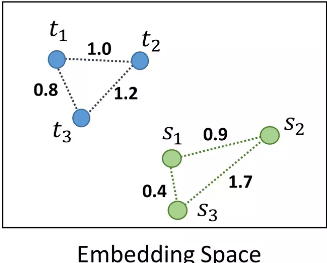
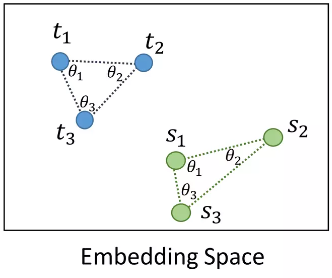
Co-authored-by: Ipsit Mantri <ipsitmantri@users.noreply.github.com>

Changed region(s): [[0.0, 0.0, 1.0, 1.0], [0.0917, 0.0608, 0.4893, 0.5475], [0.7034, 0.6692, 0.7951, 0.73]]

diff --git a/_posts/2023-01-15-TinyML.md b/_posts/2023-01-15-TinyML.md
@@ -55,43 +55,51 @@ _styles: >
     text-align: center;
     font-size: 16px;
   }
+  .small_img {
+    width: 50%;
+    height: auto;
+    margin-left: auto;
+    margin-right: auto;
+  }
 ---
 
 ## Goal of this blog post  
-NetAug caters on how to train a small neural networks like MobileNetV2-Tiny for the best top-k percent accuracy that technically differs from training large neural networks, the techniques mentioned are contrary to traditional methods like network pruning,quantization and other regularization techniques. It can be viewed as a reversed form of dropout, as we enlarge the target model instead of shrinking it. 
+NetAug TODO--cite caters on how to train small neural networks like MobileNetV2-Tiny for the best top-k percent accuracy. They argue that training small neural networks technically differs from that of large neural networks because the former are prone to underfitting. NetAug is contrary to traditional methods like dropout, network pruning, quantization, data augmentation and other regularization techniques and it can be viewed as a reversed form of dropout, as we enlarge the target model instead of shrinking it. In this blog post, we identify some problems with NetAug and propose potential workarounds.
 
 ## Background  
-NetAug solely focuses on how to efficiently train small neural networks with less memory overhead and prevent underfitting. It's certainly easy to train a huge neural network the one most predominant issue that big models suffer from is overfitting several techniques like data augmentation,pruning,dropout,knowledge distillation have been proposed. 
+NetAug solely focuses on how to efficiently train small neural networks with less memory compute and be able to deploy them on edge devices and overcome underfitting. It's certainly easy to train a huge neural network, the one most predominant issue that big models suffer from is overfitting. Several techniques like data augmentation,pruning,dropout,knowledge distillation have been proposed. 
 
-1. **Knowledge Distillation**:  It is difficult to deploy and maintain an ensemble. However, previous research has shown that it is possible to learn a single cumbersome model that has the same performance as an ensemble. It is In most of these knowledge distillation methods there exist a large teacher model that transfers its knowledge via training a small student model. 
+1. **Knowledge Distillation**:  It is difficult to deploy and maintain an ensemble. However, previous research has shown that it is possible to learn a single cumbersome model that has the same performance as an ensemble. In most knowledge distillation methods there exist a large teacher model that transfers its knowledge as a learned mapping via training to a small student model with the teacher models output. There exists techniques like self-distillation in which the teacher model trains itself. Convectional KD methods try to optimise the objective function such that the loss function penalizes the difference between the student and teacher model.
 
-2. **Regularization**: Regularization is used to prevent overfitting of any ML model by reducing the variance, model coefficient size and complexity of the model. Regularization techniques are mainly composed of data augmentation one of the most simplest and conveninet ways to expand the size of the dataset such that it prevents overfitting issues that occur with a relatively small dataset. Dropout is also popularly applied while training models, in which at every iteration connection between nodes are randomly dropped based on a particular probability and the remaining neural network is trained normally. 
+2. **Regularization**: Regularization is used to prevent overfitting of any ML model by reducing the variance, penalizing the model coefficients and complexity of the model. Regularization techniques are mainly composed of data augmentation one of the most simplest and conveninet ways to expand the size of the dataset such that it prevents overfitting issues that occur with a relatively small dataset. Dropout is also popularly applied while training models, in which at every iteration incoming and outgoing connections between certain nodes are randomly dropped based on a particular probability and the remaining neural network is trained normally. 
 
-3. **Tiny Deep learning**: TinyML revolves around how effectively we deploy machine learning models without disturbing its accuracy into small and inexpensive edge devices, 
+3. **Tiny Deep learning**:  Several challenges are paved while transitioning from conventional high end ML systems to low level clients, maintaining the accuracy of learning models, provide train-to-deploy facility in resource economical tiny edge devices, optimizing processing capacity. This method includes AutoML procedures for designing automatic techniques for architecturing apt neural netowrks for a given target hardware platform includes customised fast trained models,auto channel pruning methods and auto mixed precision quantization. The other approaches like AutoAugment methods automatically searches for improvised data augmentation within the network to prevent overfitting. There exists network slimming methods to reduce model size, decrease the run-time memory footprint and computing resource. 
 
-4. **Network Augmentation**: This method was proposed by Cai et al. idkkkkkk
+4. **Network Augmentation**: This method was proposed to solve the problem of underfitting in tiny neural networks. This is done by augmenting the given model (referred to as base model) into a larger model and encourage it to work as a sub-model to get extra supervision in additoin to functioning independently. This will help in increasing the representation power of the base model because of the gradient flow from the larger model and it can be viewed equivalently as "**reverse-dropout**". 
 
----
+5. **Neural Architechture Search**: 
 
-## Network Augmentation a.k.a NetAug  
-
-
-## The Problem With NetAug
+--- 
+## The Problem With Network Augmentation a.k.a NetAug  
 
 1. **Random Selection of Augmented Models**: NetAug randomly samples any sub-model at every training iteration without paying attention to which sample is most effective in providing auxiliary supervision to the base model. In this scenario, even those sub-models that are poor in representations are trained that might lead to increase in unnecessary parameters that can severely waste memory space. It's very important to choose which specific sub-model is to be trained at every iteration rather than choosing completely at random.
+<!-- 
+Rough idea for solution: The parameter s is the diversity factor, to control the number of augmented model configurations. Try to penalise/introduce a reward for s to favor a particular configurations that perform better/provide better auxiliary supervision.
+ -->
 
 2. **Naive Loss Function**: NetAug computes loss in a very trivial form, i.e, by simply summing over the loss of the base model with that from the respective sampled augmented models. The overall objective of any optimization is to find network such that it can maintain a tradeoffs between speed and accuracy, generalize to many diverse tasks and datasets. To make continued steady progress toward this objective, we must use the appropriate loss function, for comparing across varied network architectures that can tell us on how reliable the proposed method is.
 
-3. **Overfitting of the Augmented Models**: As the network grows lineary even the number of augmented models increase, thereby overfitting during the training process. Having large number of such models with a poor representation among them will simply increase the training overhead and will cause haphazard confusion while selecting the largest augmented model. NetAug focuses on design and implementing a single best largest, going ahead with just the largest paramater model would yield in bad accuracy and will worsen the overall model performance.
+<!--3. **Overfitting of the Augmented Models**: As the network grows lineary even the number of augmented models increase, thereby overfitting during the training process. Having large number of such models with a poor representation among them will simply increase the training overhead and will cause haphazard confusion while selecting the largest augmented model. NetAug focuses on design and implementing a single best largest, going ahead with just the largest paramater model would yield in bad accuracy and will worsen the overall model performance.-->
 
-4. **Generating the Augmented Model**: For a particular network, rather than varying a single network hyperparameter(ie: network
+4. **Generating the largest Augmented Model**: For a particular network, rather than varying a single network hyperparameter(ie: network
 depth,width), what if instead we vary all relevant network hyperparameters for every augmented sub-model? To advocate this it's sensible to compare the entire distribution of hyperparameter across the model. 
+
 ---
 
 ## Formulation of NetAug
 
 The end goal of any ML model is to be able to minimize the loss function with the help of gradient descent. Since Tiny neural network have a very small capacity the gradient descent is likely to get stuck in local minima. NetAug encourages the tiny neural network to work as a sub-model of a set of larger models constructed by augmenting the width of the tiny model. The largest augmented model,is constructed by augmenting the width ie: width of the largest augmented convolution operation is $$r \times w$$, where $$w$$ is width of a convolution operation and $$r$$ is augmentation factor.
-After building the largest augmented model, we construct other augmented models by selecting a subset of channels from the largest augmented model. We use a hyper-parameter s, named diversity factor, to control the number of augmented model configurations. We set the augmented widths to be linearly spaced between w and r × w. For instance, with r = 3 and s = 2, the possible widths are [w, 2w, 3w].
+After building the largest augmented model, we construct other augmented models by selecting a subset of channels from the largest augmented model. We use a hyper-parameter $$s$$, named diversity factor, to control the number of augmented model configurations. We set the augmented widths to be linearly spaced between $$w$$ and $$r \times w$$. For instance, with $$r = 3$$ and $$s = 2$$, the possible widths are $$[w, 2w, 3w]$$.
 
 ### Introducing NetAug with Relation Knowledge Distribution(RKD): 
 
@@ -99,93 +107,145 @@ Knowledge in learned models is constituted of:
     1. (IKD) Outputs of individual samples represented by the teacher  
     2. (RKD) Relation among examples represented by the teacher
     
-
   1. RKD is a generalization of convectional knowledge distillation that combines with NetAug to boost the performance due to its complementarity with conventional KD, that aims at transferring structural knowledge using mutual relations of data examples in the teacher’s output presentation rather than individual output themselves. Contrary to conventional approaches called as Individual KD (IKD) that transfers individual outputs of the teacher model (fT) to the student model (fS) point-wise, RKD transfers relations of the outputs structure-wise and computes a relational potential ψ for every n-tuple of data instance and transfers the relevant information through the potential from the teacher to the student models. In addition to knowledge represented in the output layers and the intermediate layers of a neural network, knowledge that captures the relationship between feature maps are also used to train a student model. 
  
   2. We specifically aim at training the teacher and student model in a online setting, in this online type of distillation training method/scheme is one in which both the teacher and the student model is trained simultaneously at the same instance of time. 
 
-  Relational Knowledge distillation can be expressed by:
+{% include figure.html path="assets/img/2023-01-15-TinyML/rkd.png" class="img-fluid" %}
 
-    - $$\chi$$: function extracting relation
-      Given a teacher model T and a student model S, we let f(T) and f(S) be functions of the teacher and the student, respectively
+  Relational Knowledge distillation can be expressed by:  
+    $$\psi$$: function extracting relation  
+    Given a teacher model T and a student model S, we let $$f(T)$$ and $$f(S)$$ be functions of the teacher and the student, respectively
 
-  $$\mathcal{L}_{\text{RKD}} = \sum \limits_{\{x_1, \ldots, x_n\} \in \chi^N} l \big(\psi(t_1,\cdots,t_n), \: \psi(s_1, \cdots, s_n)\big)$$
+  $$\begin{equation}
+  \mathcal{L}_{\text{RKD}} = \sum \limits_{\{x_1, \ldots, x_n\} \in \chi^N} l \big(\psi(t_1,\cdots,t_n), \: \psi(s_1, \cdots, s_n)\big)
+  \end{equation}$$
 
-  ## RKD Loss
+### RKD Losses
+1. **Distance-wise distillation loss (pair)**:  
 
-  1. Distance-wise distillation loss(pair):
+<div class="small_img row mt-1">
+{% include figure.html path="assets/img/2023-01-15-TinyML/RKD-D.png" class="img-fluid" %}  
+</div>
 
-          RKD-D transfer relative distance between points on embedding space.
+RKD-D transfer relative distance between points on embedding space.
+  
+  $$\begin{equation}\psi_{D}(t_i, t_j) = \frac{1}{\mu}\big\| t_i - t_j\big\|_2\end{equation}$$  
 
-            $$\psi_{D}(t_i, t_j) = \frac{1}{\mu}\big\| t_i - t_j\big\|_2$$  
+  where  $$\psi_d(\cdot, \cdot)$$ denotes distance wise potential function
+    
+  $$\begin{equation}\mu = \frac{1}{|\chi^2|}\sum\limits_{(x_i, x_j) \in \chi^2} \big\| t_i - t_j\big\|_2\end{equation}$$      
+    
+  $$\begin{equation}\boxed{\mathcal{L}_{\text{RKD-D}} = \sum \limits_{(x_i, x_j) \in \chi^2} l_\delta \big(\psi_D(t_i, t_j), \psi_D(s_i, s_j)\big)}\end{equation}$$   
 
-          $$\mu = \frac{1}{|\chi^2|}\sum\limits_{(x_i, x_j) \in \chi^2} \big\| t_i - t_j\big\|_2$$
+  Where $$l_{\delta}$$ denotes the Huber Loss.
+  
+  $$\begin{equation}l_\delta(x, y) = \begin{cases}
+                                \frac{1}{2} (x-y)^2\:\:\:\: \text{for} |x-y|^2 \\
+                                |x - y| - \frac{1}{2}\:\:\: \text{otherwise.}
+                                \end{cases}\end{equation}$$  
 
-          $$\mathcal{L}_{\text{RKD-D}} = \sum \limits_{(x_i, x_j) \in \chi^2} l_\delta \big(\psi_D(t_i, t_j), \psi_D(s_i, s_j)\big)$$
 
-          $$l_\delta(x, y) = \begin{cases}
-                              \frac{1}{2} (x-y)^2\:\:\:\: \text{for} |x-y|^2 
-                              \end{cases}$$
+2. **Angle-wise distillation loss (triplet)**:  
 
+<div class="small_img row mt-1">
+{% include figure.html path="assets/img/2023-01-15-TinyML/RKD-A.png" class="img-fluid" %}  
+</div>
 
-      2. Angle-wise distillation loss(triplet):
-       
-          RKD-A transfers angle formed by three points on embedding space. 
+RKD-A transfers angle formed by three points on embedding space.  
+  
+  $$\begin{equation}\psi_{A}(t_i, t_j, t_k) = \cos \angle t_it_jt_k = \langle \boldsymbol{e}^{ij}, \boldsymbol{e}^{jk}\rangle\end{equation}$$
+    
+  where  $$\psi_A(\cdot, \cdot, \cdot)$$ denotes angle wise potential function
+  
+  $$\begin{equation}\boldsymbol{e}^{ij} = \frac{t_i - t_j}{\big\|t_i - t_j\big\|_2}, \: \boldsymbol{e}^{jk} = \frac{t_k - t_j}{\big\|t_k - t_j\big\|_2}\end{equation}$$ 
 
-          FILL EQUATION
+  $$\begin{equation}\boxed{\mathcal{L}_{\text{RKD-A}} = \sum\limits_{(x_i, x_j, x_k) \in \chi^3} l_\delta \big(\psi_A(t_i, t_j, t_k), \psi_A(s_i, s_j, s_k)\big)}\end{equation}$$
+
 ---
 
 ### Combining RKD with NetAug:
     
-$$\mathcal{L}_{\text{aug}} = \underbrace{\mathcal{L}(W_t)}_{\text{base supervision}} \:+\: \underbrace{\alpha_1 \mathcal{L}([W_t, W_1]) + \cdots + \alpha_i \mathcal{L}([W_t, W_i]) + \cdots}_{\text{auxiliary supervision, working as a sub-model of augmented models}}  \:+\: \lambda\,\underbrace{\mathbf{\mathcal{L}_{\text{RKD}}}}_{\text{relational knowledge distillation}}$$
+$$\begin{equation}\mathcal{L}_{\text{aug}} = \underbrace{\mathcal{L}(W_t)}_{\text{base supervision}} \:+\: \underbrace{\alpha_1 \mathcal{L}([W_t, W_1]) + \cdots + \alpha_i \mathcal{L}([W_t, W_i]) + \cdots}_{\text{auxiliary supervision, working as a sub-model of augmented models}}  \:+\: \lambda_{\text{KD}}\,\underbrace{\mathbf{\mathcal{L}_{\text{RKD}}}}_{\text{relational knowledge distillation}}\label{eqn:loss_func}\end{equation}$$
 
-where $$[W_t, W_i]$$ represents an augmented model where $$[W_t]$$ contains weight of the tiny neural network and $$[W_i]$$ contains weight of the new augmented model and $$\alpha$$ is scaling hyper-parameter for combining loss from different augmented models.
+where $$[W_t, W_i]$$ represents an augmented model where $$[W_t]$$ represents the tiny neural network and $$[W_i]$$ contains weight of the sub-model sampled from the largest augmented model, $$\alpha$$ is scaling hyper-parameter for combining loss from different augmented models and finally $$\lambda_{\text{KD}}$$ is a tunable hyperparameter to balance RKD and NetAug.
 
 ## Training
 
 We train only one model for every epoch, training all the augmented models all once is not only computatioanlly expensive but also impacts the performance. The proportion of the base supervision will decrease when we sample more augmented networks, which will make the training process biased toward augmented networks and shadows the base TinyML model.
 
-    
+To further enhance the auxiliary supervision, we propose to use RKD in an online setting i.e., the largest augmented model will act as a teacher and the base model will act as a student. Both the teacher and the student are trained simultaneously.
 
-   ## PLS FILL THAT EQUATION
+We train the both the base model and the augmented model via gradient descent based on the loss function $$\eqref{eqn:loss_func}$$. The gradient update is then given by
+
+$$\begin{equation}W^{n+1}_t = W^n_t - \eta \bigg(\frac{\partial \mathcal{L}(W^n_t)}{\partial W^n_t} + \alpha \frac{\partial \mathcal{L}([W^n_t, W^n_i])}{\partial W^n_t} + \lambda \frac{\partial \mathcal{L}_{\text{RKD}}([W^n_t, W^n_l])}{\partial W^n_t}\bigg)\end{equation}$$
 
 ---
 
+## Fasten Auxillary Model Training
+
+We propose to speed up the training process for the augmented sub models such that it can attain faster convergence and reduce the number of training iterations thereby obtain a better performance. In this technique, in the early phase of training, the neural network is trained with weights shared across all the layers of the model, to learn the commonly shared component across weights of different layers, towards the later phase of training we un-share weights and continue training until convergence. Weight sharing first trains the weights in a more constrained set. It brings the weights closer to the optimal value, which provides a better initialization for subsequent training steps and a better model generalization. 
+
+**Algorithmic Motivation**  
+Denote the neural model as consisting of $$L$$ modules as $$\mathcal{M} = \{\mathcal{M}_i\}, \, i=1,\cdots, L$$ and $$w = \{w_i\}, \, i=1,\cdots, L$$ denote the corresponding weights. These weights are re-parametrized as
+
+$$\begin{equation}w_i = \frac{1}{\sqrt{L}}w_0 + \tilde{w}_i, \:\:\:\: i=1,\cdots,L\end{equation}$$  
+
+Here $$w_0$$ represents the shared weights across all modules and is referred to as **stem-direction** and $$\tilde{w}_i$$ represents the unshared weights across all modules and is referred to as **branch-directions**.
+
+**Training Strategy**  
+Denote $$T$$ as the number of training steps, $$\eta$$ as the step size and $$\alpha \in (0, 1)$$ is a tunable hyper-paramter indicating the fraction of weight sharing steps. Then we train $$\mathcal{M}$$ as follows:
+  - **Sharing weights in early stage:** For the first $$\tau = \alpha \cdot T$$ steps, we update the shared weights $$w_0$$ alone with gradient $$g_0$$
+  - **Unsharing weights in later stage:** For the next $$t \geq \alpha \cdot T$$, we update only the unshared weights $$\tilde{w}_i$$ with gradient $$\tilde{g}_i$$
+  
+The effective gradient updates for $$w_i$$ can be found using chain rule as follows:
+
+$$\begin{equation}g_0 = \frac{\partial \mathcal{L}}{\partial w_0} = \sum\limits_{i=1}^L \frac{\partial \mathcal{L}}{w_i}\,\frac{\partial w_i}{\partial w_0} = \frac{1}{\sqrt{L}}\sum\limits_{i=1}^L g_i
+\end{equation}$$
+
+$$\begin{equation}\tilde{g}_i = \frac{\partial \mathcal{L}}{\partial \tilde{w}_i} = \frac{\partial \mathcal{L}}{\partial w_i}\,\frac{\partial w_i}{\partial \tilde{w}_i} = g_i\end{equation}$$ 
+
+where $$g_i$$ denotes the gradients of $$w_i$$ and $$\mathcal{L}$$ denotes the loss function.
+
+{% include figure.html path="assets/img/2023-01-15-TinyML/NetAug_SWE.png" class="img-fluid" %}  
+
+
+## Generating largest augmented model via Single Path One-Shot:
+
+Single Path One-Shot revists the pitfalls of weight coupling in previous weight sharing methods. The one-shot paradigm is made attractive for real world tasks and better generalization. It is hyperparameter free, single path strategy works well because it can decouple the weights of different operations. This implementation can be more efficient in multiple search space. Using this technique we generate largest optimized augmented model by 
+
+1. Supernet weight Optimization  <!-- $$\begin{equation} <> \end{equation}$$-->
+
+$$ \begin{equation}W_{\mathcal{A}}=\mathop{\arg \min}_{W} \: \mathcal{L}_{\text{train}}\big(\mathcal{N}(\mathcal{A},W)\big)\end{equation}$$
+
+  During an SGD step in the above equation, each edge in the supernet graph is randomly dropped, using a dropout rate parameter. In this way, the co-adaptation of the node weights is reduced during training making the supernet training easier.
+
+
+2. Architecture Search Optimization
+
+$$ \begin{equation}a^* = \mathop{\arg \max}_{a \in \mathcal{A}} \text{ACC}_{\text{val}}\bigg(\mathcal{N}\big(a,W_{\mathcal{A}}(a)\big)\bigg)\end{equation}$$
+
+During search, each sampled architecture a inherits its weights from $$[W(A)]$$ as $$[W(A)a]$$. The architecture weights are ready to use making the search very efficient and flexible. The key to the success of architecture search in is that, the accuracy of any architecture a on a validation set using inherited weight $$[WA(a)]$$ (without extra fine tuning) is highly predictive for the accuracy of a that is fully trained. 
+
+We try to minimize the training loss even further for better performance, supernet weights $$[W_A]$$ such that all the architectures in the search space are optimized simultaneously. 
+
+$$\begin{equation}W_{\mathcal{A}} = \mathop{\arg \min}_{W} \: \mathbb{E}_{a \sim \Gamma(\mathcal{A})}\bigg[\mathcal{L}_{\text{train}}\big(\mathcal{N}(a, W(a))\big)\bigg]\end{equation}$$
+
+The prior distribution $$\Gamma(\mathcal{A})$$ is important that is best found by uniform sampling, the distribution $$\Gamma(\mathcal{A})$$ is a fixed priori during our training and is not a learnable parameter.
+    
 ## Evaluation and Inference
   
+Evaluation metric is the core for building any accurate machine learning model. We propose to implement the evaluation metrics precision@k ,recall@k and f1-score@k for the augmented sub-models sampled from largest augmented model and for the base model itself, where k represents the top k accuracy on the test set. These metrics will assist in evaluating the training procedure better than vanilla accuracy because we are trying to tackle the problem of underfitting, and an underfitted model is more likely to make the same prediction for every input and presence of class imbalance will lead to erroneous results.
+
+---
+
+## Conclusion  
+
+The main conclusion of this blog post is to further refine tiny neural networks effectively without any loss in accuracy and prevent underfitting in them. The paper implements this in a unique way apart from the conventional techniques such as regularization,dropout and data augmentation. This blog adds to other techniques that are orthogonal to NetAug can be used combined with NetAug for improvised results.
 
 
 
-
-
-
-
-
-
-
-
-
-
-
-
-
-
-
-
-
-
-
-
-
-
-
-
-
-
-
-
-
-<!-- Notes/Overview/Category of the Paper, comment out later -->
+<!-- Notes/Overview/Category of the Paper, comment out later 
 ### Category
 Solves a known problem of underfitting by proposing a new method
 
@@ -199,10 +259,10 @@ Assumptions appear to be valid, but there are few setbacks (like eq 1 of the pap
 NetAug, Ablation study, improving the performance of underfitting models, new ways to consider loss functions
 
 ### Clarity
-Well-written overall. Somethings are not clear
+Well-written overall. Somethings are not clear-->
 
 <!-- Questions/clarifications asked by us -->
-```markdown
+<!--```markdown
 Hi All, 
 
 I hope everyone is doing well. I'm pursuing a BS from India and my friend is an employee. We came across this paper Network Augmentation for Tiny Deep Learning that was published in ICLR 22. We are unclear about a few things, would be great if you can clarify/justify them to us.
@@ -226,9 +286,9 @@ Thanks and regards,
 Nevasini and Ipsit.
 ```
 
-```markdown
+```markdown-->
 <!-- Their reply -->
-Hi Nevasini and Ipsit,
+<!--Hi Nevasini and Ipsit,
 
  
 
@@ -246,6 +306,6 @@ Hi Nevasini and Ipsit,
 
 Best,
 
-Han
-```
+Han-->
+
 
